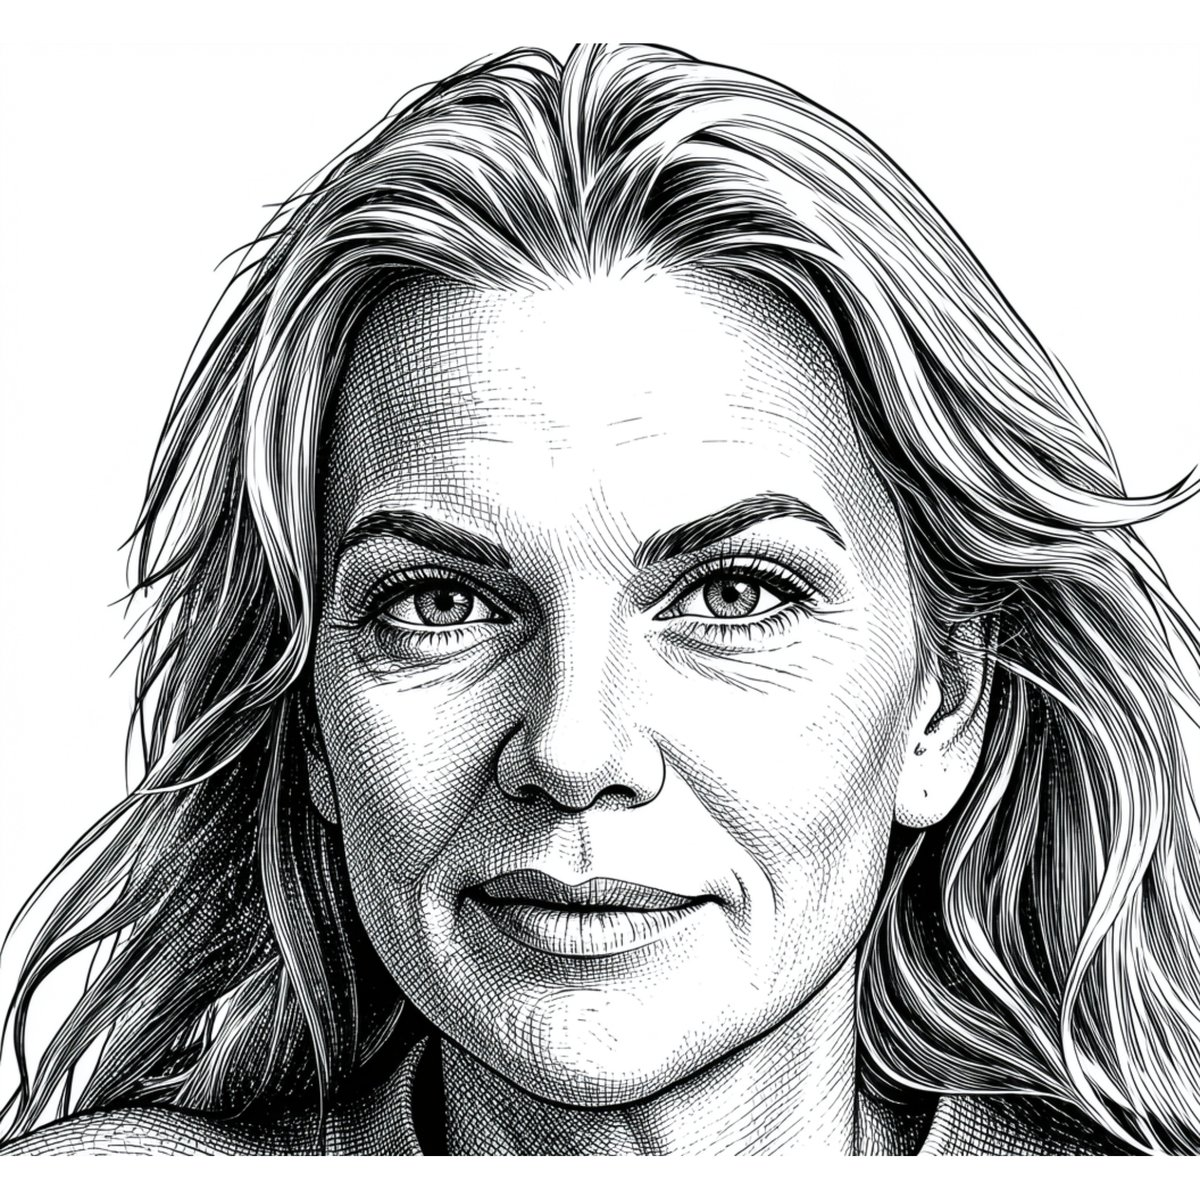
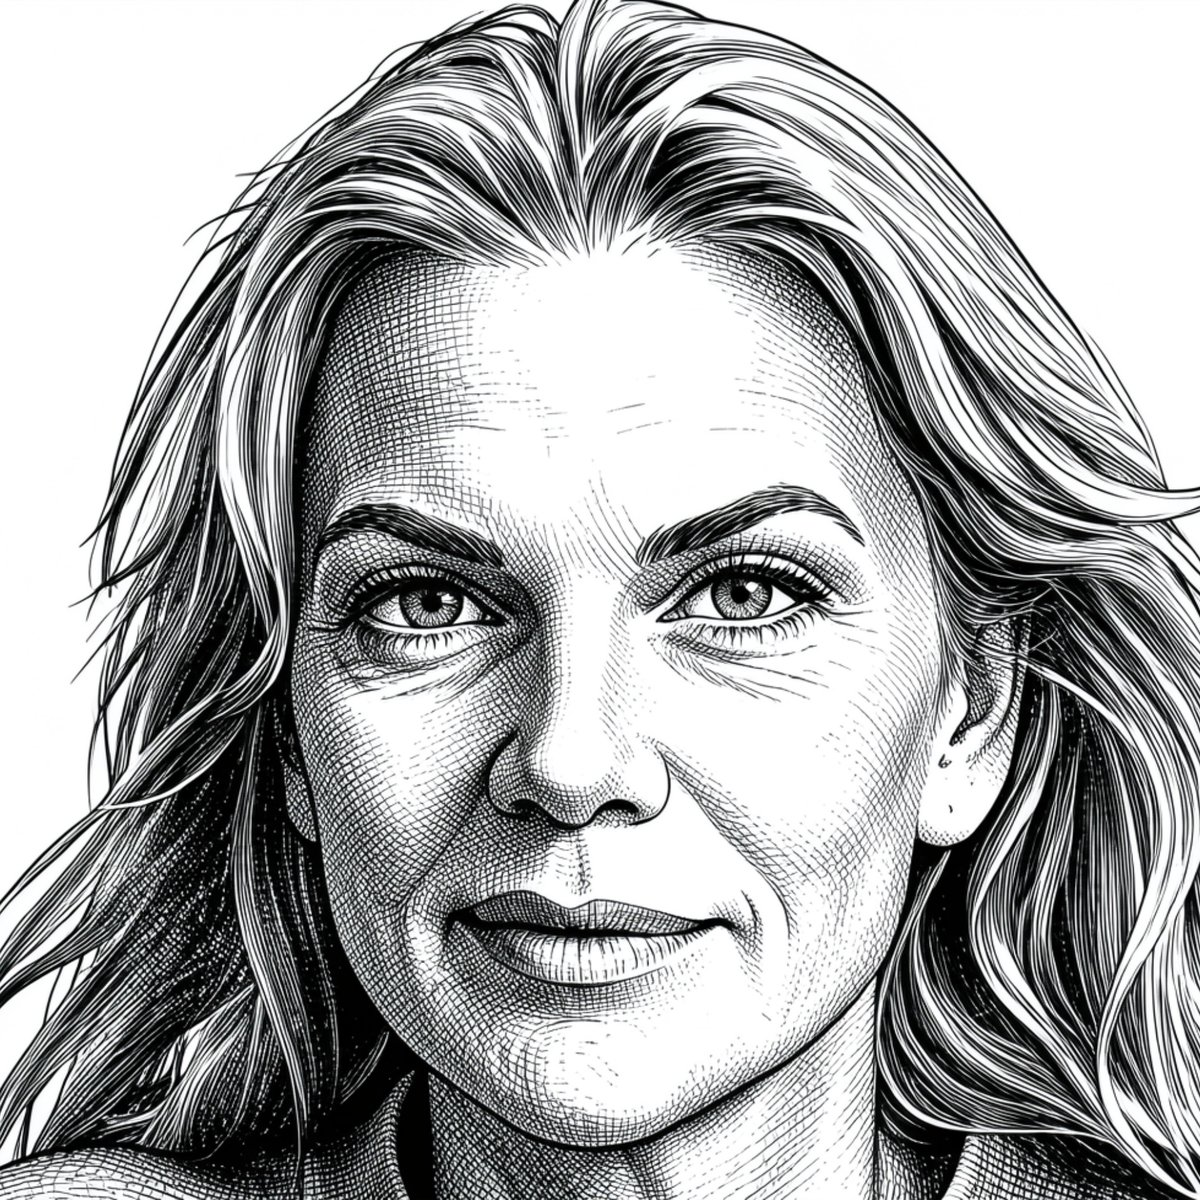
Anna Loos: Porträtbild durch besser zugeschnittene Zeichnung ersetzt, Cache-Zähler erhöht
Claude-Session: https://claude.ai/code/session_01JHBY3GJBphCMurKa2K4rhF

diff --git a/en/sw.js b/en/sw.js
@@ -1,6 +1,6 @@
 // Kompass Service Worker – iOS-kompatibler Auto-Reload
-const SW_VERSION = 'v1149';
-const BUNDLE_VERSION = 'v3012'; // wird bei jedem Deploy mitaktualisiert → löst Auto-Reload aus, ab jetzt synchron mit en/index.html bundle.js?v=inhalt-vNNNN gepflegt
+const SW_VERSION = 'v1150';
+const BUNDLE_VERSION = 'v3013'; // wird bei jedem Deploy mitaktualisiert → löst Auto-Reload aus, ab jetzt synchron mit en/index.html bundle.js?v=inhalt-vNNNN gepflegt
 const CACHE_NAME = 'kompass-en-cache-' + SW_VERSION;
 
 self.addEventListener('install', event => {

diff --git a/sw.js b/sw.js
@@ -3,8 +3,8 @@
 // denselben Scope konkurrieren (führte zu unzuverlässiger Push-Zustellung).
 importScripts("https://cdn.onesignal.com/sdks/web/v16/OneSignalSDK.sw.js");
 
-const SW_VERSION = 'v2977';
-const BUNDLE_VERSION = 'v3547'; // wird bei jedem Deploy mitaktualisiert → löst Auto-Reload aus
+const SW_VERSION = 'v2978';
+const BUNDLE_VERSION = 'v3548'; // wird bei jedem Deploy mitaktualisiert → löst Auto-Reload aus
 const CACHE_NAME = 'kompass-cache-' + SW_VERSION;
 
 self.addEventListener('install', event => {

diff --git a/index.html b/index.html
@@ -144,7 +144,7 @@
     <script src="data/changelog.js?v=1716"></script>
     <script src="fontsize-kompass.js?v=1"></script>
     <script src="a11y.js?v=4" defer></script>
-    <script type="module" src="bundle.js?v=inhalt-v3547"></script>
+    <script type="module" src="bundle.js?v=inhalt-v3548"></script>
     <script>
       if ("serviceWorker" in navigator) {
         // Nur neu laden wenn vorher schon ein SW aktiv war (nicht beim ersten Start nach Cache-Leerung)

diff --git a/en/index.html b/en/index.html
@@ -113,7 +113,7 @@
     <script src="../data/changelog.js?v=1566"></script>
     <script src="../fontsize-kompass.js?v=1"></script>
     <script src="../a11y.js?v=4" defer></script>
-    <script type="module" src="./bundle.js?v=inhalt-v3012"></script>
+    <script type="module" src="./bundle.js?v=inhalt-v3013"></script>
     <script>
       if ("serviceWorker" in navigator) {
         const hadController = !!navigator.serviceWorker.controller;
